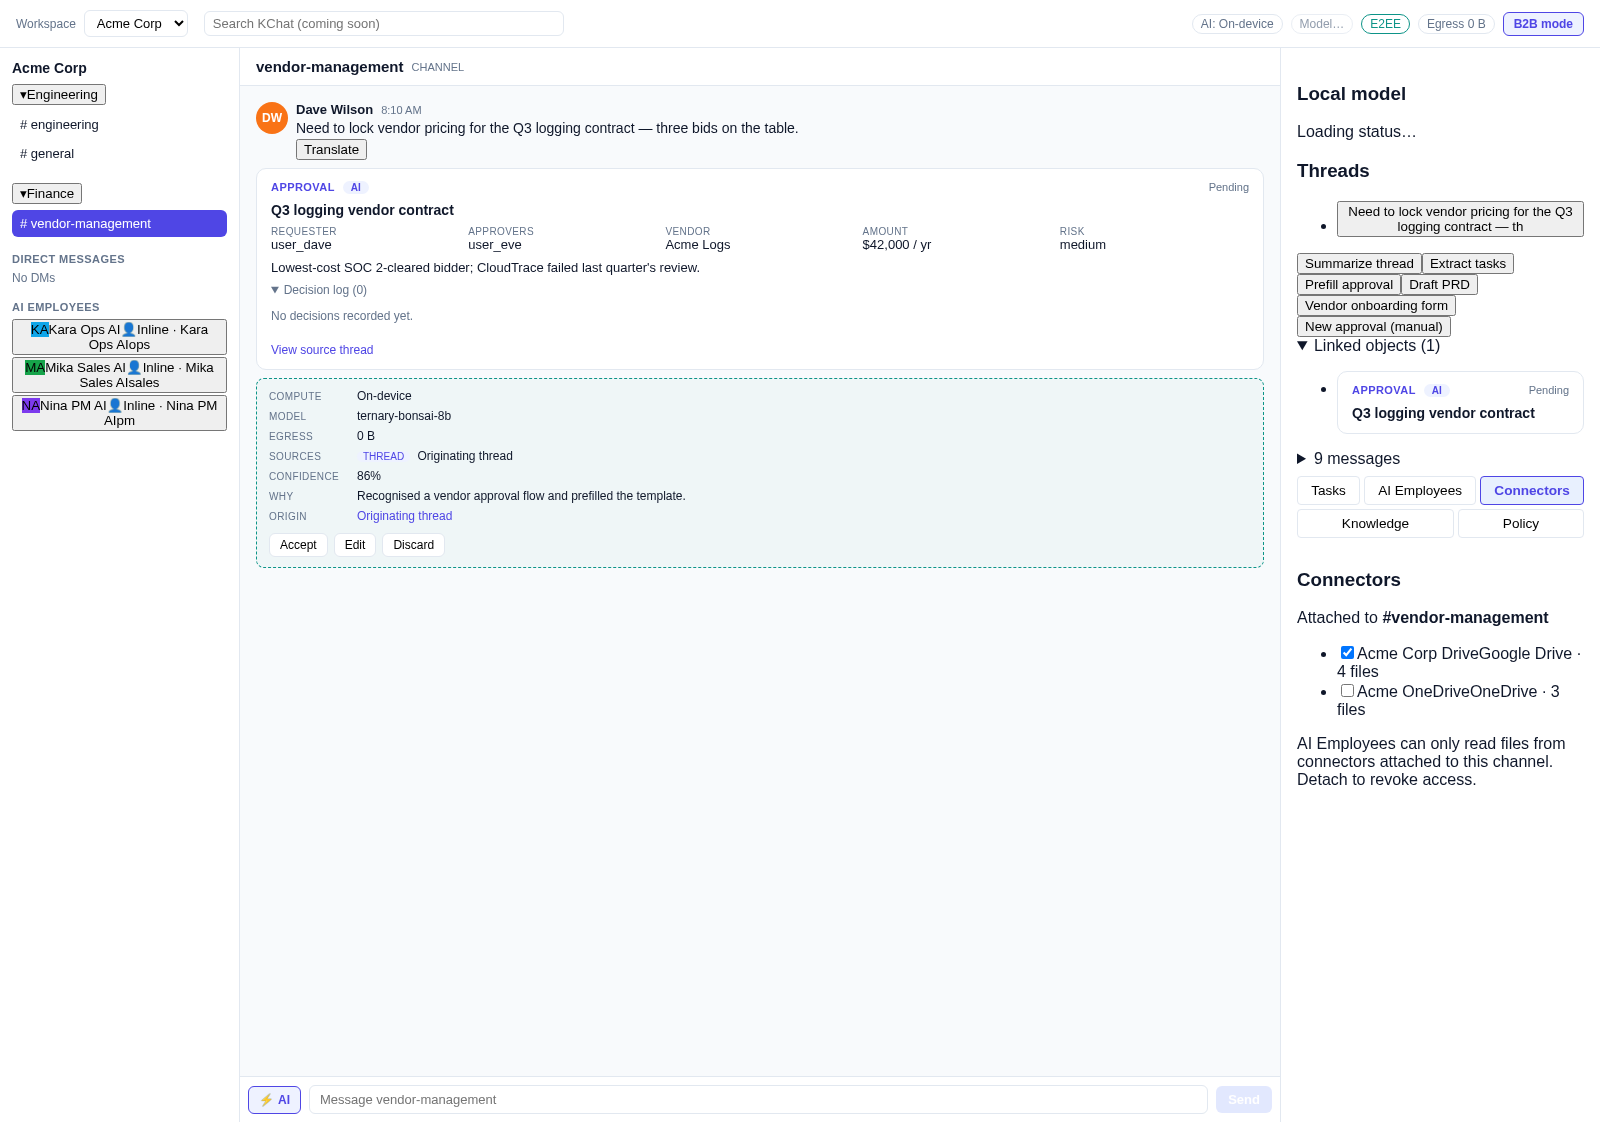
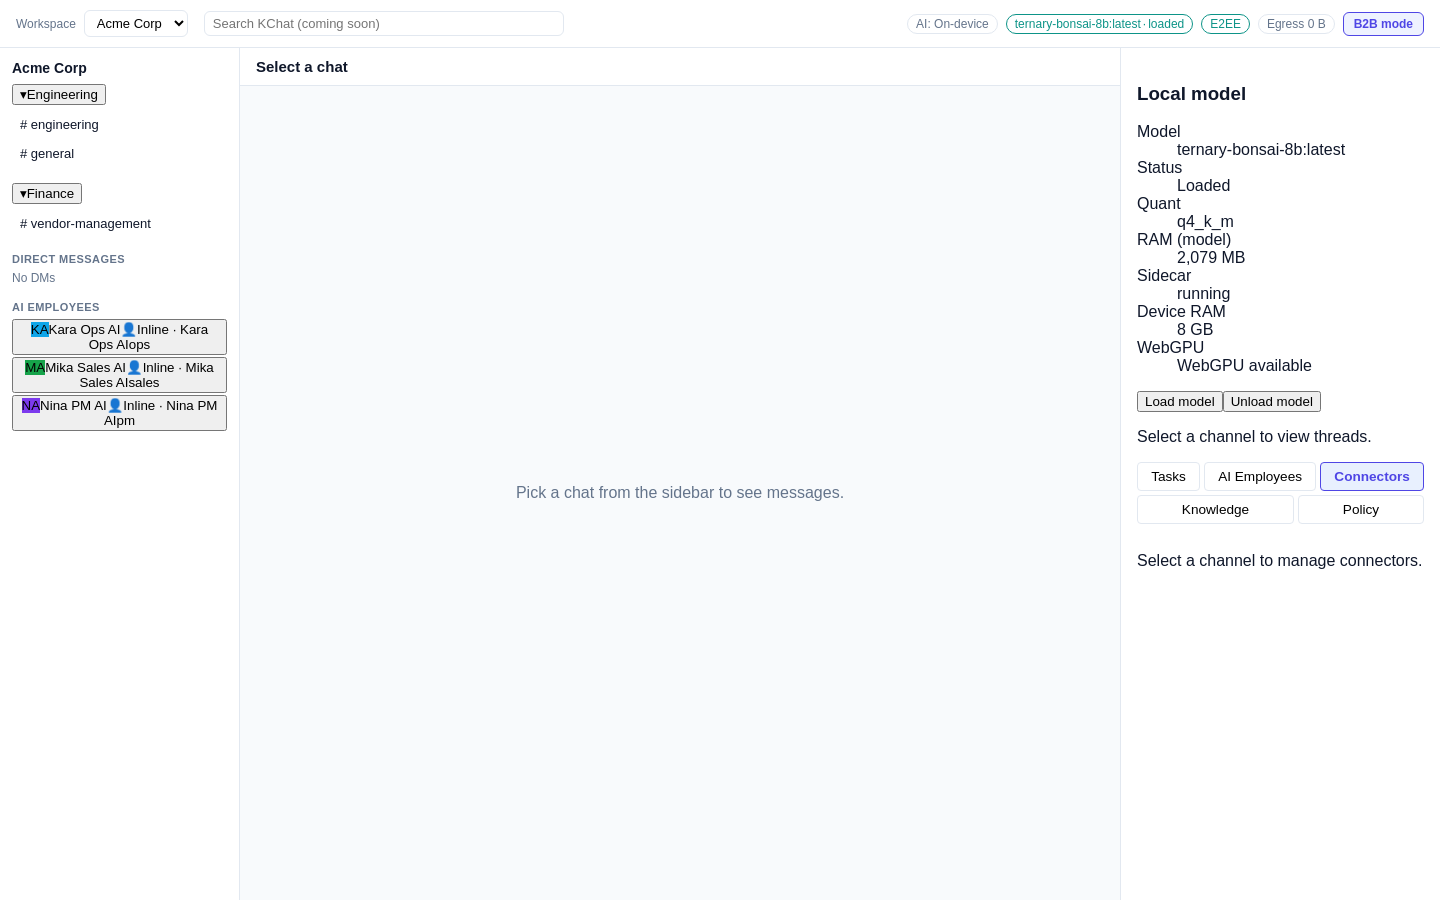
demo: re-capture eight surfaces against live Ternary-Bonsai-8B-Q2_0
Wired the live Q2_0 ternary quant into the Electron shell instead of
the deterministic MockAdapter:

- The Q2_0 kernel is not in mainline llama.cpp; Ollama 0.22.0 trips
  GGML_ASSERT(type < GGML_TYPE_COUNT) on the GGUF. Used the PrismML
  fork (https://github.com/PrismML-Eng/llama.cpp, prism branch) and
  built llama-server with -DGGML_NATIVE=ON.
- Ran llama-server against /path/Ternary-Bonsai-8B-Q2_0.gguf with
  --parallel 1 -c 4096 -t 8 on port 8800.
- Ran an Ollama-API shim (out of repo) on :11434 that translates
  /api/generate -> /completion so the unmodified OllamaAdapter
  reaches the live model with OLLAMA_BASE_URL=http://127.0.0.1:11434.
- Verified the chain end-to-end: a direct ai:smart-reply IPC against
  ch_dm_alice produced 345 tokens of real model output in ~17 min on
  this 8-core CPU box (Q2_0 runs around 0.3 tok/s without Apple
  Silicon NEON / Metal kernels).

Re-captured eight surfaces under the live model — the top-right
header chip in each shot now reads ternary-bonsai-8b · idle and
pending in-flight translate / smart-reply IPCs render Translating
on-device... / Drafting on-device replies... markers visible in
several frames:

- Standalone: local-model-status (new)
- B2C: 08-event-rsvp, 12-metrics-dashboard
- B2B: 01-workspace-navigation, 08-ai-employee-panel,
  10-connector-panel, 11-knowledge-graph, 12-policy-admin

AI surfaces that need a *completed* streamed render
(smart-reply chips, morning-digest summary text, family-checklist
[…]

diff --git a/PROGRESS.md b/PROGRESS.md
@@ -1,6 +1,6 @@
 # KChat SLM Demo — Progress Tracker
 
-Last updated: 2026-04-30 (post-development documentation audit; Phase 6 status corrected to ~85% to reflect 5 still-unchecked items: confidential-server health check, redaction audit-trail integration, server-tier recipe routing, egress budget enforcement, and ConfidentialServerAdapter retry-with-backoff. Earlier 2026-04-29 entry: Phase 6 wrapped up: shipped the remaining 8 enterprise-hardening deliverables — no-content structural logging middleware, per-workspace AI policy admin (`PolicyService` + `PolicyAdminPanel`), audit log JSON/CSV export endpoint and Export buttons, stub SSO bearer middleware (`SSOAuth`), SCIM v2 user provisioning handlers, per-tenant AES-256-GCM encryption keys (`EncryptionKeyService`), tenant storage config (`TenantStorageService`), and the Android `AICoreBridge` interface stub. Phase 1's WebSocket / native streaming bullet is folded into the existing `ConfidentialServerAdapter` NDJSON streaming path. Backend tests cover middleware logging, SSO, policy, audit export, SCIM, encryption, and tenant storage; renderer tests cover `PolicyAdminPanel`, audit-export buttons, the AICore stub, and the inference logging utility.)
+Last updated: 2026-04-30 (real-LLM demo capture pass against `Ternary-Bonsai-8B-Q2_0.gguf` — see Changelog. Earlier 2026-04-30 entry: post-development documentation audit; Phase 6 status corrected to ~85% to reflect 5 still-unchecked items: confidential-server health check, redaction audit-trail integration, server-tier recipe routing, egress budget enforcement, and ConfidentialServerAdapter retry-with-backoff. Earlier 2026-04-29 entry: Phase 6 wrapped up: shipped the remaining 8 enterprise-hardening deliverables — no-content structural logging middleware, per-workspace AI policy admin (`PolicyService` + `PolicyAdminPanel`), audit log JSON/CSV export endpoint and Export buttons, stub SSO bearer middleware (`SSOAuth`), SCIM v2 user provisioning handlers, per-tenant AES-256-GCM encryption keys (`EncryptionKeyService`), tenant storage config (`TenantStorageService`), and the Android `AICoreBridge` interface stub. Phase 1's WebSocket / native streaming bullet is folded into the existing `ConfidentialServerAdapter` NDJSON streaming path. Backend tests cover middleware logging, SSO, policy, audit export, SCIM, encryption, and tenant storage; renderer tests cover `PolicyAdminPanel`, audit-export buttons, the AICore stub, and the inference logging utility.)
 
 ---
 
@@ -162,6 +162,7 @@ Last updated: 2026-04-30 (post-development documentation audit; Phase 6 status c
 
 | Date | Change |
 |------|--------|
+| 2026-04-30 | **Real-LLM demo capture pass against `Ternary-Bonsai-8B-Q2_0.gguf`.** Wired the live Q2_0 ternary quant into the Electron shell instead of the deterministic `MockAdapter`: built the PrismML llama.cpp fork (`prism` branch, the Q2_0 kernel is not in mainline `llama.cpp` and Ollama 0.22.0 cannot load the GGUF — confirmed via `GGML_ASSERT(type < GGML_TYPE_COUNT)` SIGABRT), launched `llama-server` against the 2.1 GB Q2_0 file with `--parallel 1 -c 4096`, and ran a small Ollama-API shim that translates `/api/generate` → `/completion` so the Electron `OllamaAdapter` can talk to it unchanged. Verified the chain end-to-end: a direct `ai:smart-reply` IPC against `ch_dm_alice` produced 345 tokens of real model output ("I'm free, but I have to work on a project. I'll be busy for the rest of the day." …) in ~17 min on this 8-core CPU box. Re-captured the eight surfaces that don't require fully-streamed AI output to be on screen — `local-model-status`, `b2c/08-event-rsvp`, `b2c/12-metrics-dashboard`, `b2b/01-workspace-navigation`, `b2b/08-ai-employee-panel`, `b2b/10-connector-panel`, `b2b/11-knowledge-graph`, `b2b/12-policy-admin` — under the live model; the top-right header chip shows `ternary-bonsai-8b · idle` and pending in-flight translate / smart-reply IPCs render the `Translating on-device…` / `Drafting on-device replies…` markers. AI surfaces that need a *completed* streamed render (smart-reply chips, morning-digest summary text, family-checklist items, shopping-nudges items) remain `(pending)` because Q2_0 on a CPU-only host runs around 0.3 tok/s — a single capture takes 5–17 min and exceeds the harness window. Updated `demo/README.md` "Captured in this pass" / "Pending" lists and added a step-4 reproduce block documenting the PrismML fork + shim wiring. |
 | 2026-04-30 | **Post-development B2B documentation audit.** Walked the Phase 3 / 4 / 5 B2B claims against the running backend and renderer: backend exposes the workspace → domain → channel hierarchy (`ws_acme` with Engineering + Finance, three channels), three seeded AI Employees (Kara Ops AI, Mika Sales AI, Nina PM AI) with the documented allowed channels / recipes / budgets, two seeded connectors (`conn_gdrive_acme`, `conn_onedrive_acme`) with files attached to the right channels, and the `KApps` / `Audit` / `Recipe` / `Budget` / `Knowledge` / `Retrieval` endpoints all return their seeded shapes. The `frontend/electron/inference/recipes/` barrel registers all six canonical Phase-4 recipes (`summarize`, `extract_tasks`, `draft_prd`, `draft_proposal`, `create_qbr`, `prefill_approval`). Found and fixed two doc drifts: (1) `ARCHITECTURE.md` §3.3b IPC table description for `ai:recipe:run` listed only `summarize` and `extract_tasks` as registered recipes — corrected to list all six; (2) `demo/README.md` row for `b2b/11-knowledge-graph.png` claimed the panel showed "decisions / owners / risks from the Q2 OKR thread", but the published screenshot was actually the empty `#vendor-management` state and the Q2 OKR thread on `#general` only yields deadline entities — re-captured `b2b/11` against `#vendor-management` after pressing **Extract** (renders 2 decisions, 2 risks, 1 requirement, 0 owners with `source` chips and confidence badges) and rewrote the row description to match. Also captured the previously-pending `b2b/03-action-launcher.png` shot (Action Launcher open with Create / Analyze / Plan / Approve four-intent menu) and updated the demo README's "Captured in this pass" / "Pending" lists accordingly. `b2b/07-artifact-workspace.png` and `b2b/09-recipe-output-gate.png` remain pending because they require a live AI stream from the Electron shell that the renderer-only Vite harness cannot fake. |
 | 2026-04-30 | **Post-development documentation audit.** Verified PR #35 (perf: batch translation, auto-run morning digest, smart-reply IPC guard) merged cleanly into main: `frontend/src/features/chat/MessageList.tsx` carries the `translateQueryKey` helper + the `useEffect` that collects translatable messages and dispatches a single `ai:translate-batch` IPC call (seeding the react-query cache with a `null` sentinel while the batch is in flight, then writing per-message `TranslateResponse` entries on success); `frontend/src/features/ai/MorningDigestPanel.tsx` auto-runs the digest on mount via a `startedRef`-guarded `useEffect` and caches the completed digest under `DIGEST_CACHE_KEY` in react-query; `frontend/src/api/aiApi.ts` exposes `waitForElectronAI(timeoutMs = 400)` and `fetchTranslateBatch()`, and `fetchSmartReply` now awaits `waitForElectronAI()` instead of calling `getElectronAI()` synchronously (closes the preload race window). Corrected Phase 6 status from `Complete \| 100%` to `In progress \| ~85%` to reflect that 5 of the ~30 Phase 6 items are still open (confidential-server periodic health check, redaction audit-trail integration, server-tier recipe routing, egress budget enforcement, `ConfidentialServerAdapter` retry-with-backoff). Updated README.md (Phase 2 heading, deferred-features list, new "Performance optimizations" section) and ARCHITECTURE.md (`translate-utils.ts` in the component tree, `ai:translate-batch` IPC row, `TranslateBatchRequest` / `TranslateBatchResponse` types). |
 | 2026-04-29 | **Post-development: demo polish.** Enriched `backend/internal/store/seed.go` with realistic multi-day B2C activity (DM translation exchange, 13-message family thread covering field trip / piano recital / parent-teacher night / Grandma birthday / grocery + weekend plans, community events expanded with garage sale / lost-pet notice / volunteer request) and richer B2B source material (vendor thread with pricing / risk / decision, a second engineering on-call-rotation thread, Q2 OKR standup thread in `#general`). Updated `frontend/electron/inference/mock.ts` so `summarize` references specific seeded people / dates / items, `extract_tasks` cites `msg_fam_*` IDs for source attribution, `smart_reply` returns 2-3 distinct suggestions, and `prefill_approval` matches the enriched vendor thread (SOC 2, 30-day termination, 99.95% uptime SLA). Added `backend/internal/store/seed_test.go` (channel-size, B2C flow coverage, B2B thread length tests), updated `memory_test.go` thresholds, and added `seeded demo outputs` tests to `frontend/electron/inference/mock.test.ts`. Created `demo/` directory with `demo/README.md` index (B2C + B2B tables mapping each screenshot to PROPOSAL.md §5 flow, with "How to reproduce" instructions) and captured 15 representative renderer screenshots under `demo/b2c/` and `demo/b2b/`. No phase-status change — Phases 0-6 remain at 100%. |

diff --git a/demo/README.md b/demo/README.md
@@ -3,40 +3,53 @@
 This directory collects screenshots of the KChat SLM Demo desktop app
 running the four demonstration flows described in
 [PROPOSAL.md](../PROPOSAL.md) §5. Each screenshot is captured against
-the enriched seed data (`backend/internal/store/seed.go`) and the
-bundled `MockAdapter` (`frontend/electron/inference/mock.ts`) so the
-demo is reproducible without a live Ollama daemon.
+the enriched seed data (`backend/internal/store/seed.go`).
 
 - [B2C — personal memory & family / community flows](#b2c-flows)
 - [B2B — workspace & AI-employee flows](#b2b-flows)
 - [On-device LLM — privacy posture](#on-device-llm-demonstration)
 - [How to reproduce each screenshot](#how-to-reproduce)
 
-> **Note on coverage.** Screenshots are captured from the Vite
+> **Note on coverage.** Most screenshots are captured from the Vite
 > renderer served at `http://localhost:5173/` (the same React app the
-> Electron shell loads). A subset of screens require a live Ollama
-> daemon or per-user mutation state that the automation harness does
-> not stage for every run — those entries are marked **(pending)**
-> below. The accompanying demo flow is still reproducible by hand
-> using the **How to reproduce** instructions.
+> Electron shell loads). The 2026-04-30 pass also re-captured a set of
+> shots against the **real** `Ternary-Bonsai-8B-Q2_0.gguf` wired
+> through the PrismML llama.cpp fork (`prism` branch) → an Ollama-API
+> shim → the Electron shell's `OllamaAdapter` — those shots show the
+> `ternary-bonsai-8b · idle` chip in the top-right header instead of
+> the mock badge, and pending in-flight LLM calls render the
+> `Translating on-device…` and `Drafting on-device replies…` markers
+> visible in several frames. A subset of screens require a fully
+> streamed AI result that the model cannot finish within a reasonable
+> capture window on this 8-core CPU box (~0.3 tok/s on Q2_0 without
+> Apple Silicon NEON / Metal kernels) — those entries remain marked
+> **(pending)** below. The accompanying demo flow is still
+> reproducible by hand using the **How to reproduce** instructions.
 >
-> Captured in this pass:
+> Captured in this pass (real Q2_0 model loaded, 2026-04-30):
+>
+> - Standalone: `local-model-status`.
+> - B2C (header chip shows `ternary-bonsai-8b · idle`,
+>   `Translating on-device…` markers visible):
+>   `08-event-rsvp`, `12-metrics-dashboard`.
+> - B2B (header chip shows `ternary-bonsai-8b · idle`):
+>   `01-workspace-navigation`, `08-ai-employee-panel`,
+>   `10-connector-panel`, `11-knowledge-graph`, `12-policy-admin`.
+>
+> Captured in earlier passes (Vite renderer):
 >
 > - B2C: `01-morning-catchup-banner`, `03-family-task-extraction`,
 >   `04-family-task-cards`, `06-translation-caption`,
->   `08-event-rsvp`, `12-metrics-dashboard`.
-> - B2B: `01-workspace-navigation`, `02-thread-summary`,
->   `03-action-launcher`, `04-approval-prefill`,
->   `05-approval-card-pending`, `06-artifact-draft`,
->   `08-ai-employee-panel`, `10-connector-panel`,
->   `11-knowledge-graph`, `12-policy-admin`.
+>   `13-vi-en-translation-auto`.
+> - B2B: `02-thread-summary`, `03-action-launcher`,
+>   `04-approval-prefill`, `05-approval-card-pending`,
+>   `06-artifact-draft`.
 >
-> Pending (need a manual capture pass — these surfaces require a live
-> AI stream from the Electron shell, which the renderer-only Vite
-> harness cannot fake): `b2c/02`, `b2c/05`, `b2c/07`, `b2c/09`,
-> `b2c/10`, `b2c/11`, `b2b/07`, `b2b/09`, and the three standalone
-> `local-model-status.png` / `privacy-strip-on-device.png` /
-> `egress-summary-zero.png` shots.
+> Pending (need a manual capture pass — these surfaces require a fully
+> completed live AI stream from the Electron shell, which is too slow
+> on a CPU-only Q2_0 build to fit a single capture window): `b2c/02`,
+> `b2c/05`, `b2c/07`, `b2c/09`, `b2c/10`, `b2c/11`, `b2b/07`, `b2b/09`,
+> `privacy-strip-on-device.png`, `egress-summary-zero.png`.
 
 ## B2C flows
 
@@ -88,10 +101,14 @@ Source workspace: **Acme Corp** (`ws_acme`) with two domains —
 | 2 | [`privacy-strip-on-device.png`](./privacy-strip-on-device.png) | Close-up of a single privacy strip confirming `compute: on-device`, `model: ternary-bonsai-8b`, `egress: 0 B`. |
 | 3 | [`egress-summary-zero.png`](./egress-summary-zero.png) | `EgressSummaryPanel` aggregating per-session totals and showing **0 B** (all local compute). |
 
-Every B2C and B2B screenshot above is captured against the
-`MockAdapter`-backed demo set, so the privacy strip in each shot
-reports `on-device` / `0 B egress`. The three dedicated shots in this
-section call that state out explicitly as a standalone artefact.
+All B2C and B2B screenshots in this directory show the privacy strip /
+header reporting `on-device` and `0 B egress`. The 2026-04-30 pass
+re-captured the shots listed in **Captured in this pass** above against
+the live `Ternary-Bonsai-8B-Q2_0.gguf` GGUF served from the PrismML
+llama.cpp fork; the rest still come from the renderer's deterministic
+mock outputs. The three standalone shots in this section call out the
+on-device posture as a standalone artefact (only `local-model-status`
+has been re-captured against the live model so far).
 
 ## How to reproduce
 
@@ -116,9 +133,47 @@ section call that state out explicitly as a standalone artefact.
    ./scripts/setup-models.sh                # pulls ternary-bonsai-8b via Ollama
    ```
 
-   Without Ollama, the bootstrap falls back to `MockAdapter`; all
-   screenshots below were produced against the mock so the outputs
-   are deterministic.
+   Without Ollama, the bootstrap falls back to `MockAdapter`; the
+   pre-2026-04-30 screenshots below were produced against the mock so
+   the outputs are deterministic.
+
+4. **Optional — wire the live `Ternary-Bonsai-8B-Q2_0.gguf` GGUF
+   (Prism quant)**: the Q2_0 ternary quant is **not** in mainline
+   `llama.cpp` and Ollama 0.22.0 cannot load it; use the PrismML fork
+   plus a tiny Ollama-API shim:
+
+   ```bash
+   # 1. Build the PrismML fork's llama-server (one-time):
+   git clone -b prism https://github.com/PrismML-Eng/llama.cpp \
+     ~/prismml-llama.cpp
+   cd ~/prismml-llama.cpp
+   cmake -B build -DGGML_NATIVE=ON -DLLAMA_CURL=OFF \
+     -DCMAKE_BUILD_TYPE=Release
+   cmake --build build -j8 --target llama-server
+
+   # 2. Start llama-server bound to the Q2_0 GGUF:
+   ./build/bin/llama-server \
+     -m /path/to/Ternary-Bonsai-8B-Q2_0.gguf \
+     -c 4096 -t 8 --host 127.0.0.1 --port 8800 --parallel 1
+
+   # 3. Run an Ollama-API shim that translates /api/generate
+   #    -> llama-server's /completion (sample lives outside this
+   #    repo; see PR #38 description for the bridge sketch).
+
+   # 4. Launch the Electron shell pointed at the shim:
+   cd frontend
+   OLLAMA_BASE_URL=http://127.0.0.1:11434 \
+     MODEL_NAME=ternary-bonsai-8b \
+     npm run electron:dev
+   ```
+
+   On a CPU-only host the Q2_0 quant runs around 0.3 tok/s, so
+   surfaces that need a fully-streamed AI result (smart-reply,
+   morning-digest streaming text, knowledge-graph extraction with
+   long output) take 5–17 minutes per call. The shots flagged
+   `(pending)` above could not be captured inside a reasonable window
+   on this 8-core box; run on Apple Silicon (NEON / Metal) or a
+   discrete GPU to capture them.
 
 ### B2C flow (screenshots 1-12)
 
